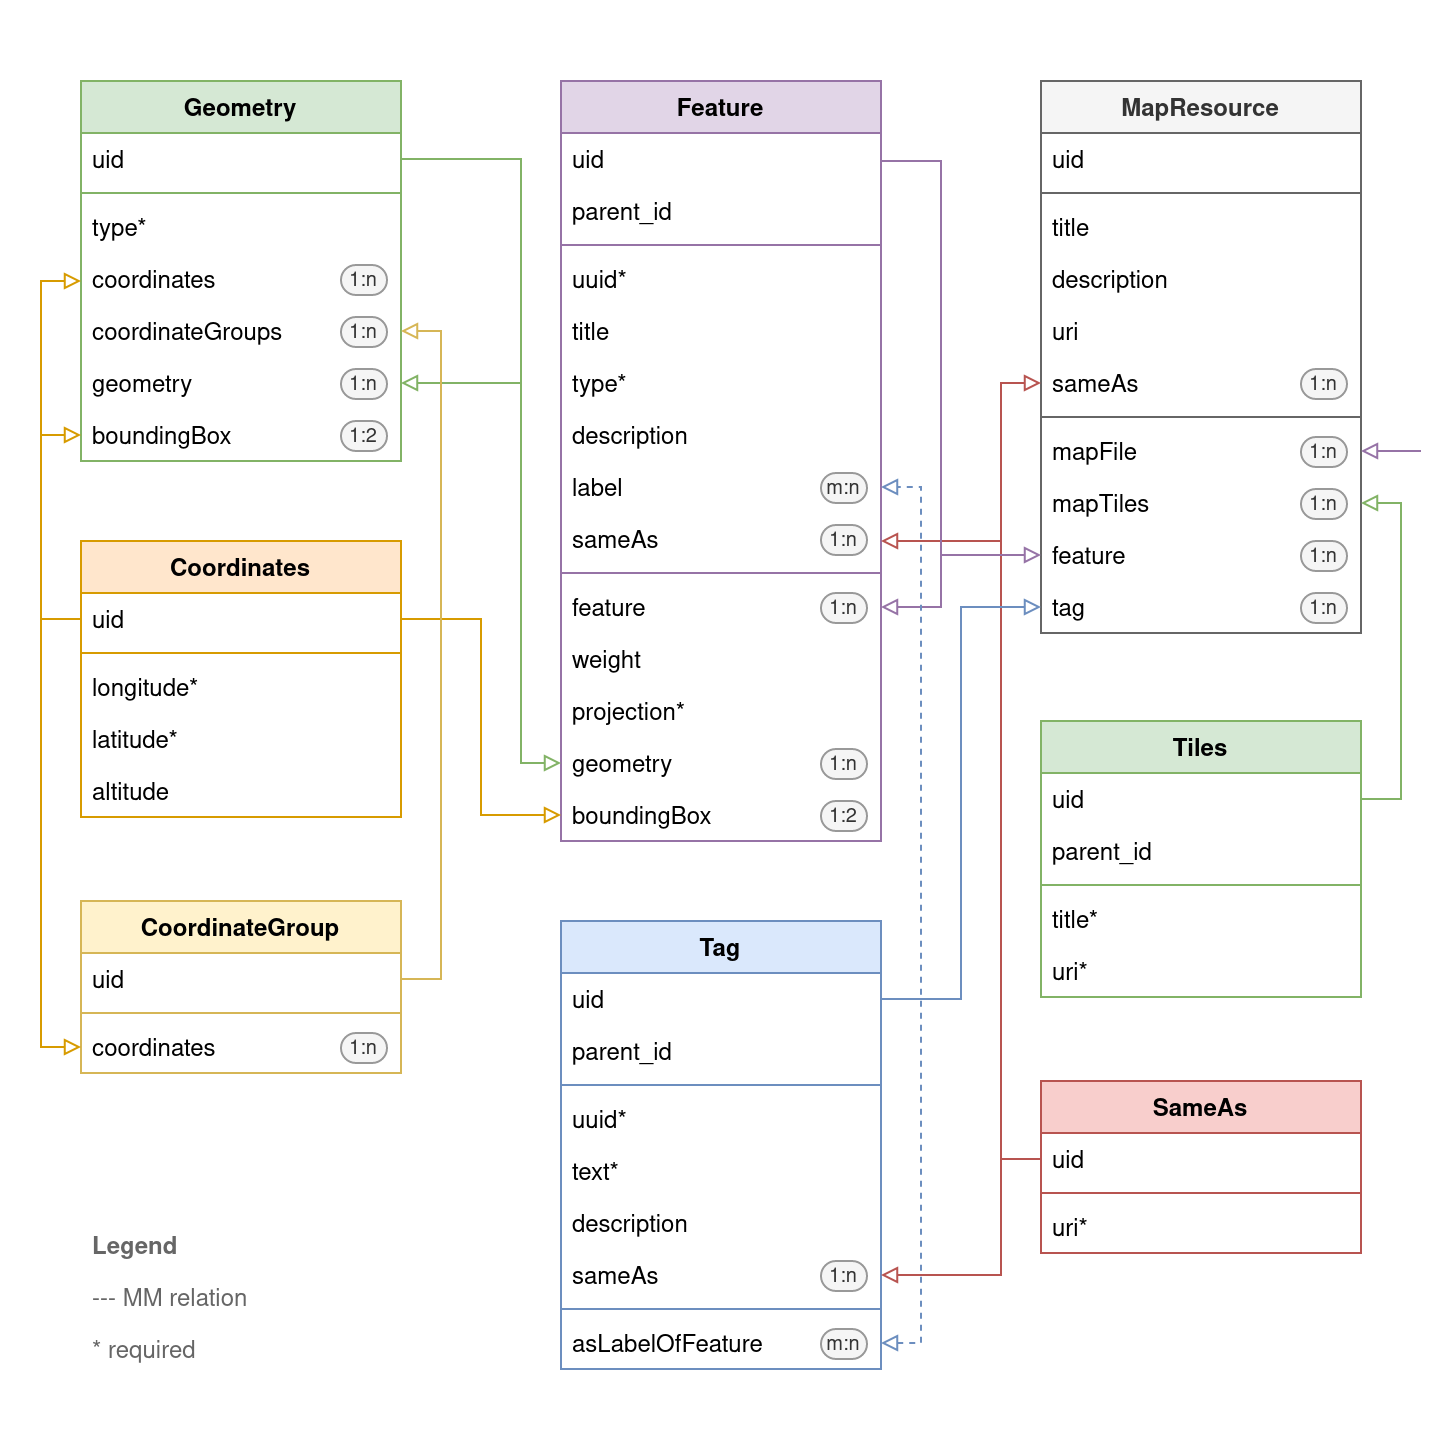
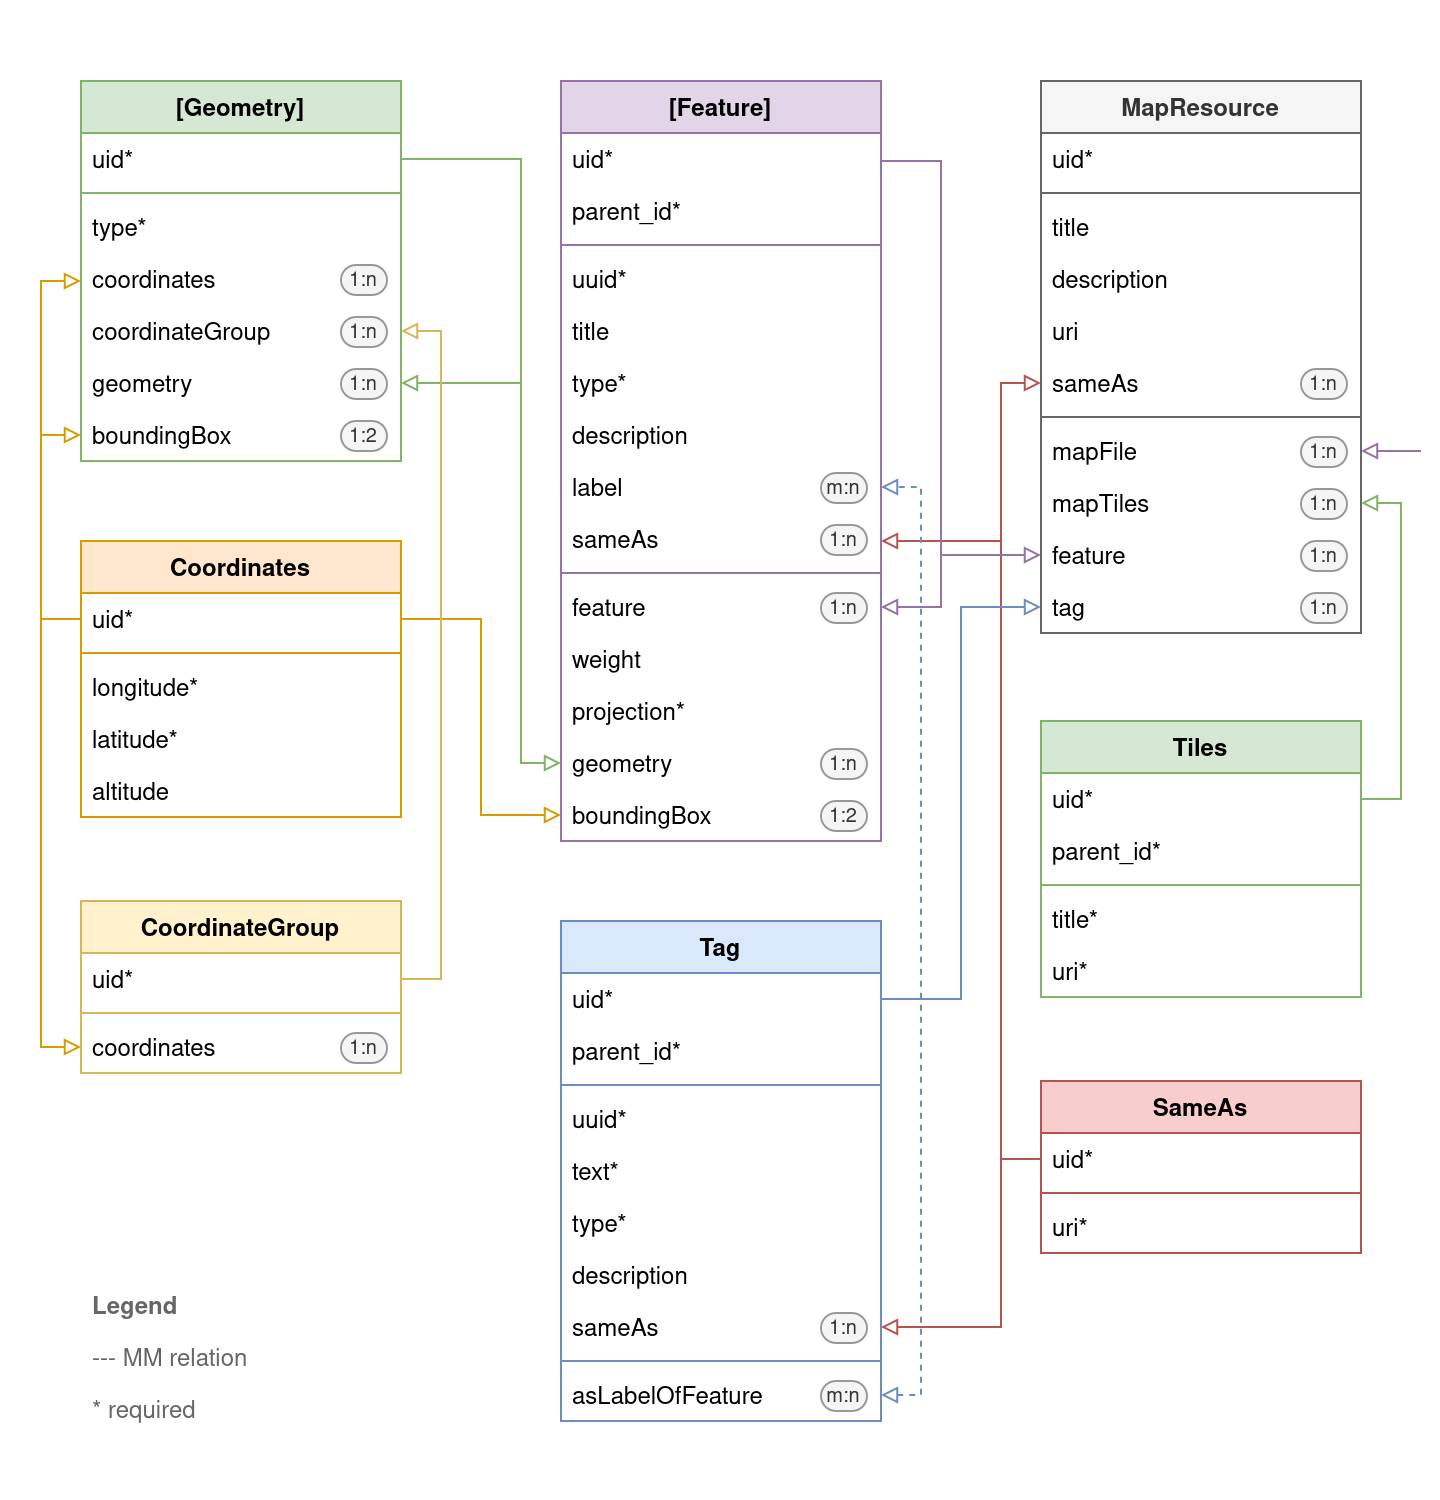
Add object variants to documentation

diff --git a/Configuration/Extbase/Persistence/Classes.php b/Configuration/Extbase/Persistence/Classes.php
@@ -16,7 +16,7 @@ declare(strict_types=1);
  * Simpler objects based on tables that do not have multiple types
  * do not need to be listed here since Extbase maps them automatically.
  * For more information on the persistence of Extbase models see
- * https://docs.typo3.org/m/typo3/reference-coreapi/main/en-us/ExtensionArchitecture/Extbase/Reference/Domain/Persistence.html#extbase-persistence.
+ * https://docs.typo3.org/m/typo3/reference-coreapi/main/en-us/ExtensionArchitecture/Extbase/Reference/Domain/Persistence.html.
  */
 return [
     Digicademy\DAMap\Domain\Model\AbstractFeature::class => [

diff --git a/Documentation/DataModel/Index.rst b/Documentation/DataModel/Index.rst
@@ -37,3 +37,12 @@ Graphical overview
     :class: with-shadow
 
     Overview of the extension's data model. Check the :ref:`api-reference` for further details.
+
+This overview simplifies several object variants into a single item since they populate the same database table. The following image shows the actual objects.
+
+..  figure:: /DataModel/DataModelVariants.png
+    :alt: Variants implied in the data model overview
+    :target: /DataModel/DataModelVariants.png
+    :class: with-shadow
+
+    Variants of ``Geometry`` and ``Feature`` in the data model. Check the :ref:`api-reference` for further details.
